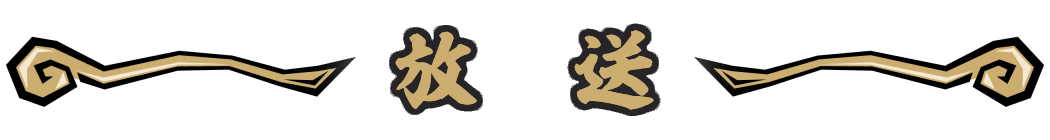
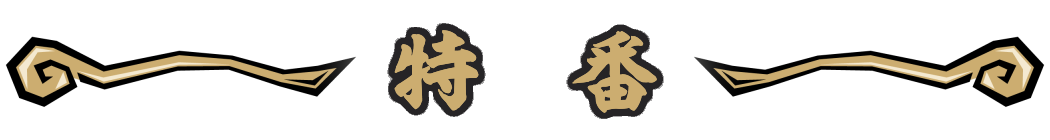
feat: add housou info

Changed region(s): [[0.5181, 0.1714, 0.64, 0.8571], [0.3657, 0.1714, 0.4876, 0.8286]]

diff --git a/src/const/team.ts b/src/const/team.ts
@@ -13,6 +13,7 @@ const team: {
   seisaku: TeamMember[];
   tachie: TeamMember[];
   kokuchi: TeamMember[];
+  tokuban: TeamMember[];
   housou: TeamMember[];
 } = {
   unnei: [
@@ -312,7 +313,7 @@ const team: {
       twitterLink: 'https://twitter.com/benibame10'
     }
   ],
-  housou: [
+  tokuban: [
     {
       name: '仲邑飛鳥',
       role: '特番制作',
@@ -368,6 +369,144 @@ const team: {
       niconicoLink: 'https://www.nicovideo.jp/user/6641990',
       youtubeLink: 'https://www.youtube.com/@user-gk6gv2bq4x',
       twitterLink: 'https://twitter.com/OZd_oouc2'
+    }
+  ],
+  housou: [
+    {
+      name: '大内乙打',
+      role: '出演者',
+      iconSrc: '/Icon/実行委員会/放送_特番/特番01_icon_大内乙打.jpg',
+      niconicoLink: 'https://www.nicovideo.jp/user/6641990',
+      youtubeLink: 'https://www.youtube.com/@user-gk6gv2bq4x',
+      twitterLink: 'https://twitter.com/OZd_oouc2'
+    },
+    {
+      name: 'かっぱ',
+      role: '出演者',
+      iconSrc: '/Icon/実行委員会/本放送/本放送_icon_かっぱ.jpg',
+      niconicoLink: 'https://www.nicovideo.jp/user/28794844',
+      youtubeLink: undefined,
+      twitterLink: 'https://twitter.com/Klunakapa'
+    },
+    {
+      name: 'BaN長',
+      role: '出演者',
+      iconSrc: '/Icon/実行委員会/本放送/本放送_icon_BaN長.jpg',
+      niconicoLink: 'https://www.nicovideo.jp/user/39234097',
+      youtubeLink: undefined,
+      twitterLink: 'https://twitter.com/banfuture'
+    },
+    {
+      name: '26K',
+      role: 'BGMディレクター',
+      iconSrc: '/Icon/実行委員会/本放送/本放送_icon_26K.jpg',
+      niconicoLink: 'https://www.nicovideo.jp/user/23542987',
+      youtubeLink: 'https://www.youtube.com/channel/UCa0NaAtqVJu7yVqHobWkV9Q',
+      twitterLink: 'https://twitter.com/26K_'
+    },
+    {
+      name: 'うせ',
+      role: 'BGM',
+      iconSrc: '/Icon/実行委員会/本放送/本放送_icon_うせ.jpg',
+      niconicoLink: 'https://www.nicovideo.jp/user/58228001',
+      youtubeLink: 'https://www.youtube.com/@UCEch777/videos',
+      twitterLink: 'https://twitter.com/UCEch777/media'
+    },
+    {
+      name: 'owatax',
+      role: 'BGM',
+      iconSrc: '/Icon/実行委員会/本放送/本放送_icon_owatax.jpg',
+      niconicoLink: 'https://www.nicovideo.jp/user/1033213',
+      youtubeLink: 'https://www.youtube.com/channel/UCzNTlDGQUjsmzeiTYSOmguQ',
+      twitterLink: 'https://twitter.com/owatax00'
+    },
+    {
+      name: 'おちんぽきまじめ',
+      role: 'BGM',
+      iconSrc: '/Icon/実行委員会/本放送/本放送_icon_おちんぽきまじめ.jpg',
+      niconicoLink: 'https://www.nicovideo.jp/user/30846190',
+      youtubeLink: undefined,
+      twitterLink: 'https://twitter.com/Sr20detNissan'
+    },
+    {
+      name: 'ご学友',
+      role: 'BGM',
+      iconSrc: '/Icon/実行委員会/本放送/本放送_icon_ご学友.jpg',
+      niconicoLink: undefined,
+      youtubeLink: undefined,
+      twitterLink: undefined
+    },
+    {
+      name: '権太夫',
+      role: 'BGM',
+      iconSrc: '/Icon/実行委員会/本放送/本放送_icon_権太夫.jpg',
+      niconicoLink: 'https://www.nicovideo.jp/user/1571412',
+      youtubeLink: 'https://www.youtube.com/channel/UCf-ZOn9_psQ-kvRb1EavcTQ',
+      twitterLink: 'https://twitter.com/gondayu'
+    },
+    {
+      name: '2÷す',
+      role: 'BGM',
+      iconSrc: '/Icon/実行委員会/本放送/本放送_icon_2÷す.jpg',
+      niconicoLink: 'https://www.nicovideo.jp/user/21133029',
+      youtubeLink: undefined,
+      twitterLink: undefined
+    },
+    {
+      name: 'ふるの',
+      role: 'BGM',
+      iconSrc: '/Icon/実行委員会/本放送/本放送_icon_ふるの.jpg',
+      niconicoLink: 'https://www.nicovideo.jp/user/42060207',
+      youtubeLink: undefined,
+      twitterLink: 'https://twitter.com/furuno_2'
+    },
+    {
+      name: '麻痺',
+      role: 'BGM',
+      iconSrc: '/Icon/実行委員会/本放送/本放送_icon_麻痺.jpg',
+      niconicoLink: 'https://www.nicovideo.jp/user/320294',
+      youtubeLink: undefined,
+      twitterLink: undefined
+    },
+    {
+      name: 'りゅん',
+      role: 'BGM',
+      iconSrc: '/Icon/実行委員会/本放送/本放送_icon_りゅん.jpg',
+      niconicoLink: 'https://www.nicovideo.jp/user/44819558',
+      youtubeLink: 'https://www.youtube.com/@28ryn',
+      twitterLink: 'https://twitter.com/rynryn1203'
+    },
+    {
+      name: 'ジャカス',
+      role: '出演者立ち絵',
+      iconSrc: '/Icon/実行委員会/本放送/本放送_icon_ジャカス.png',
+      niconicoLink: 'http://nicovideo.jp/user/42145641',
+      youtubeLink: 'https://www.youtube.com/@kawaiijacchus',
+      twitterLink: 'https://twitter.com/kawaiijacchus'
+    },
+    {
+      name: '地他',
+      role: '出演者立ち絵',
+      iconSrc: '/Icon/実行委員会/本放送/本放送_icon_地他.jpg',
+      niconicoLink: 'https://www.nicovideo.jp/user/128351566',
+      youtubeLink: undefined,
+      twitterLink: 'https://twitter.com/chitatihc'
+    },
+    {
+      name: 'オンモコスブ',
+      role: 'トランジション',
+      iconSrc: '/Icon/実行委員会/本放送/本放送_icon_オンモコスブ.jpg',
+      niconicoLink: 'https://www.nicovideo.jp/user/97199955',
+      youtubeLink: 'https://www.youtube.com/channel/UCZvm0JcwBEOG9qeJ2leuk9A',
+      twitterLink: 'https://twitter.com/onmokosub'
+    },
+    {
+      name: 'リイゴカワイラ',
+      role: 'トランジション',
+      iconSrc: '/Icon/実行委員会/本放送/本放送_icon_リイゴカワイラ.jpg',
+      niconicoLink: 'https://www.nicovideo.jp/user/118622321',
+      youtubeLink: 'https://www.youtube.com/@riigokawaira7071',
+      twitterLink: 'https://twitter.com/riigorira_mad'
     }
   ]
 };

diff --git a/src/pages/team.tsx b/src/pages/team.tsx
@@ -63,7 +63,18 @@ const Team: NextPageWithLayout = () => {
           {/* 放送 */}
           <section>
             <h1 className="my-[0.5208333333vw] grid place-items-center 4xl:my-[10px]">
-              <ResponsiveImage src="/Team/51_Operation_Line_05.png" alt="放送" width={1050} height={140} />
+              <ResponsiveImage src="/Team/51_Operation_Line_05.png" alt="特番" width={1050} height={140} />
+            </h1>
+            <div className="grid grid-cols-[repeat(5,min-content)] justify-center gap-[0.46875vw] 4xl:gap-[9px]">
+              {team.tokuban.map((item) => (
+                <TeamItem key={item.name} member={item} />
+              ))}
+            </div>
+          </section>
+          {/* 放送 */}
+          <section>
+            <h1 className="my-[0.5208333333vw] grid place-items-center 4xl:my-[10px]">
+              <ResponsiveImage src="/Team/51_Operation_Line_06.png" alt="放送" width={1050} height={140} />
             </h1>
             <div className="grid grid-cols-[repeat(5,min-content)] justify-center gap-[0.46875vw] 4xl:gap-[9px]">
               {team.housou.map((item) => (

diff --git a/src/pages/sp/team.tsx b/src/pages/sp/team.tsx
@@ -60,6 +60,12 @@ export default function Team() {
             ))}
           </section>
           <section>
+            <SpTeamHeader>特　番</SpTeamHeader>
+            {team.tokuban.map((member, i) => (
+              <SpTeamItem member={member} key={i} />
+            ))}
+          </section>
+          <section>
             <SpTeamHeader>放　送</SpTeamHeader>
             {team.housou.map((member, i) => (
               <SpTeamItem member={member} key={i} />
